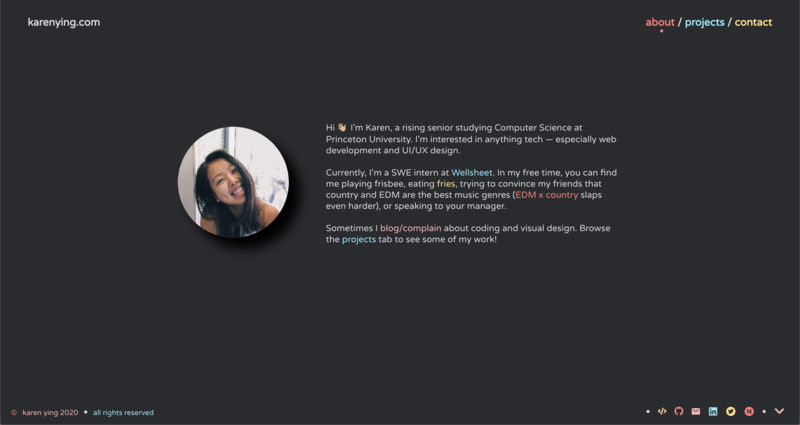
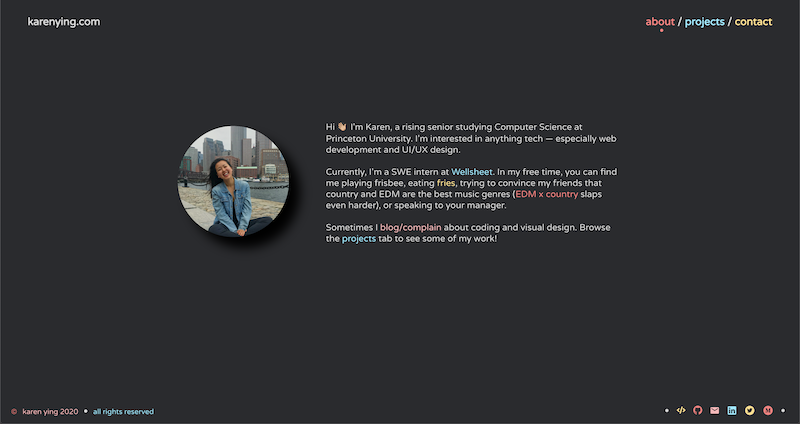
Update pics

diff --git a/src/Components/About.js b/src/Components/About.js
@@ -48,7 +48,7 @@ export default function About() {
                     <ProgressiveImage src={Karen} placeholder={MiniKaren}>
                         {(src, loading) => (
                             <img
-                                style={{ opacity: loading ? 0.7 : 1 }}
+                                style={{ opacity: loading ? 0.8 : 1 }}
                                 src={src}
                                 alt='karen'
                             />
